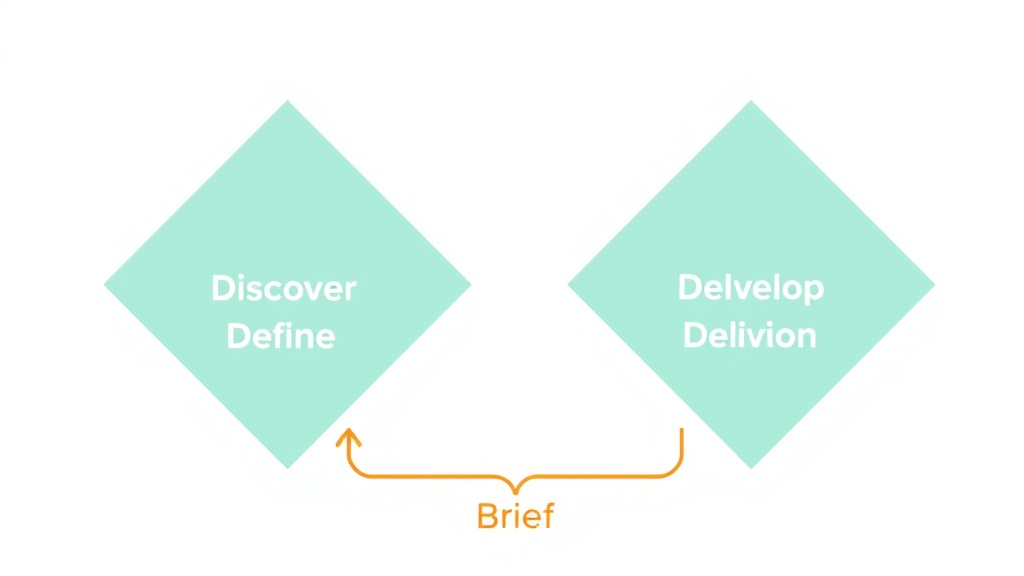
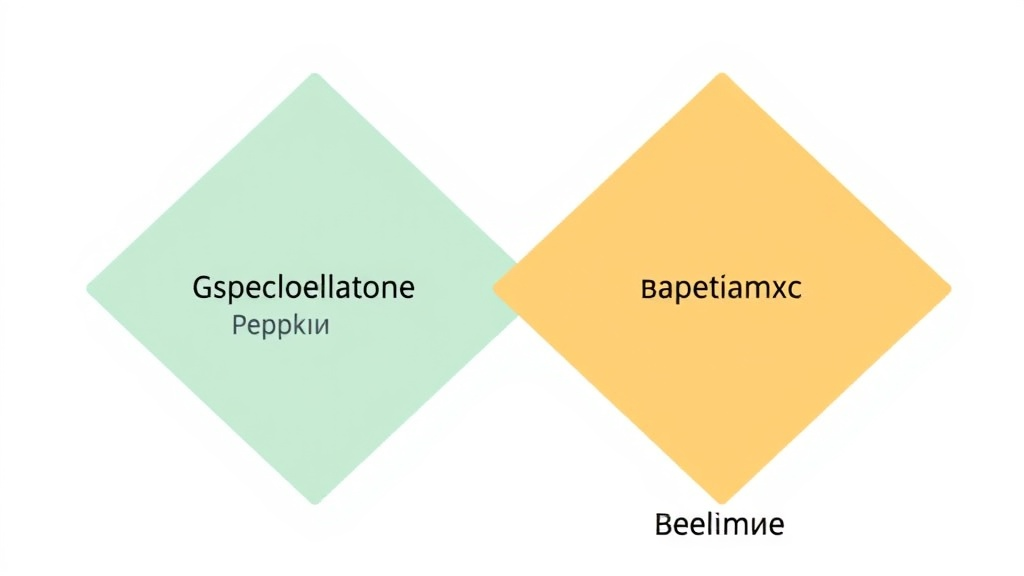
feat(meeting-02): artefacts section, links, salary ranges, regenerated team & diamond
Multiple targeted improvements requested by Michael:

- Add canonical reference links in "Ключевые фигуры" / "Key Figures":
  * Don Norman → "The Design of Everyday Things" (jnd.org)
  * Jakob Nielsen → 10 usability heuristics (nngroup.com)
  * Dieter Rams → 10 principles of good design (vitsoe.com)
- Extend RichText helper to parse [text](url) markdown links so anchors
  show up in any text/columns/callout content.
- Add new "Артефакты UX-дизайнера" / "UX Designer Artefacts" section with
  5 subsections, each with an example illustration:
  user-flow, wireframes, information-architecture, user-story-map,
  prototypes. RU + EN mirrored.
- Replace meaningless "Расходимся → Сходимся" Double Diamond description
  with the real phase names "Исследование → Определение → Разработка →
  Реализация" (EN: Discover → Define → Develop → Deliver).
- Regenerate meeting-02-double-diamond.webp with Russian phase labels
  baked into the diagram.
- Regenerate meeting-02-ux-team-roles.webp with explicit composition
  guidance (uniform card sizes, centred avatars, consistent style).
- Add Israeli salary ranges to "Карьерные пути" / "Career Paths" — one
  line per track (IC / Management / Specialization).

diff --git a/data/meetings/meeting-02.ts b/data/meetings/meeting-02.ts
@@ -160,7 +160,7 @@ export const meeting02: Meeting = {
               title: 'Дон Норман',
               items: [
                 'Ввёл термин «User Experience» в Apple (1993)',
-                'Книга «Дизайн привычных вещей» — библия UX',
+                'Книга «Дизайн привычных вещей» ([читать](https://jnd.org/books/the-design-of-everyday-things-revised-and-expanded-edition/)) — библия UX',
                 'Концепции affordance и signifier',
                 'Профессор когнитивных наук → дизайн',
               ],
@@ -168,7 +168,7 @@ export const meeting02: Meeting = {
             {
               title: 'Якоб Нильсен',
               items: [
-                '10 эвристик юзабилити (1994) — используются до сих пор',
+                '10 эвристик юзабилити (1994) ([читать](https://www.nngroup.com/articles/ten-usability-heuristics/)) — используются до сих пор',
                 'Основатель Nielsen Norman Group',
                 'Пионер юзабилити-тестирования',
                 '«5 пользователей найдут 85% проблем»',
@@ -186,7 +186,7 @@ export const meeting02: Meeting = {
             {
               title: 'Дитер Рамс',
               items: [
-                '10 принципов хорошего дизайна (Braun)',
+                '10 принципов хорошего дизайна (Braun) ([читать](https://www.vitsoe.com/us/about/good-design))',
                 'Вдохновил Джонни Айва (Apple)',
                 '«Хороший дизайн — как можно меньше дизайна»',
                 'Мост между индустриальным и цифровым дизайном',
@@ -626,6 +626,99 @@ export const meeting02: Meeting = {
 
         { type: 'divider' as const },
 
+        // --- Артефакты UX-дизайнера ---
+        {
+          type: 'heading' as const,
+          content: 'Артефакты UX-дизайнера',
+        },
+        {
+          type: 'text' as const,
+          content:
+            'Каждый этап работы дизайнера создаёт **артефакт** — конкретный документ или схему, которую можно показать команде, разработчикам и стейкхолдерам. Это способ превратить идеи в общий язык.',
+        },
+
+        {
+          type: 'subheading' as const,
+          content: 'User Flow — карта пути пользователя',
+        },
+        {
+          type: 'text' as const,
+          content:
+            'Схема всех экранов и решений на пути пользователя к цели. Показывает, **куда ведёт каждый клик** и где могут возникнуть тупики или развилки.',
+        },
+        {
+          type: 'image' as const,
+          src: '/images/meeting-02-artefact-user-flow.webp',
+          alt: 'Пример User Flow: 6 экранов соединены стрелками с двумя ветвлениями',
+          caption: 'User Flow для покупки в интернет-магазине: от логина до подтверждения заказа.',
+        },
+
+        {
+          type: 'subheading' as const,
+          content: 'Wireframes — схематичные макеты без визуала',
+        },
+        {
+          type: 'text' as const,
+          content:
+            'Каркас интерфейса в серых блоках: где будет контент, кнопка, картинка. Без шрифтов, цветов и графики — **только структура**. Их легко менять, пока не утверждена логика.',
+        },
+        {
+          type: 'image' as const,
+          src: '/images/meeting-02-artefact-wireframes.webp',
+          alt: 'Пример wireframe: серый каркас веб-страницы с hero-секцией и тремя карточками',
+          caption: 'Wireframe — структура без украшений: блоки, иерархия, акценты.',
+        },
+
+        {
+          type: 'subheading' as const,
+          content: 'Информационная архитектура (IA)',
+        },
+        {
+          type: 'text' as const,
+          content:
+            'Дерево разделов и страниц продукта. Показывает, как контент **сгруппирован и связан** между собой — от корня (Главная) до листьев (конкретных страниц).',
+        },
+        {
+          type: 'image' as const,
+          src: '/images/meeting-02-artefact-information-architecture.webp',
+          alt: 'Пример IA: дерево с корнем Home и четырьмя ветками категорий',
+          caption: 'Информационная архитектура: иерархия разделов от Главной до конкретных страниц.',
+        },
+
+        {
+          type: 'subheading' as const,
+          content: 'Карта пользовательских сценариев (User Story Map)',
+        },
+        {
+          type: 'text' as const,
+          content:
+            'Горизонтальная карта активностей пользователя с вертикальными «срезами» релизов. Помогает увидеть **MVP**, что может подождать, и в каком порядке выпускать функции.',
+        },
+        {
+          type: 'image' as const,
+          src: '/images/meeting-02-artefact-user-story-map.webp',
+          alt: 'Пример User Story Map: пять активностей сверху, под ними стикеры по релизам',
+          caption: 'User Story Map: верхний срез — MVP, ниже — последующие релизы.',
+        },
+
+        {
+          type: 'subheading' as const,
+          content: 'Прототипы для тестирования',
+        },
+        {
+          type: 'text' as const,
+          content:
+            'Кликабельная версия дизайна: можно нажать на кнопку и попасть на следующий экран. Используется для **юзабилити-тестов**, демо стейкхолдерам и проверки логики до разработки.',
+        },
+        {
+          type: 'image' as const,
+          src: '/images/meeting-02-artefact-prototypes.webp',
+          alt: 'Пример прототипа: смартфон-мокап с переходами на соседние экраны',
+          caption: 'Прототип: кликабельный поток с переходами между экранами для тестирования.',
+        },
+
+        { type: 'divider' as const },
+
         // --- Double Diamond ---
         {
           type: 'heading' as const,
@@ -639,7 +732,7 @@ export const meeting02: Meeting = {
         {
           type: 'diagram' as const,
           title: 'Четыре фазы Double Diamond',
-          description: 'Расходимся → Сходимся → Расходимся → Сходимся',
+          description: 'Исследование → Определение → Разработка → Реализация',
           items: [
             '1. Discover (Исследование) — понять проблему, собрать данные, интервью, наблюдения',
             '2. Define (Определение) — сформулировать точную проблему, приоритизировать',
@@ -696,6 +789,7 @@ export const meeting02: Meeting = {
                 'Глубокая экспертиза в одной области',
                 'Senior может зарабатывать как менеджер',
                 'Фокус на craft и менторство',
+                '**Ставка в Израиле:** Junior ₪8–14k · Middle ₪14–22k · Senior ₪22–35k · Staff/Principal ₪35–55k+',
               ],
             },
             {
@@ -705,6 +799,7 @@ export const meeting02: Meeting = {
                 'Управление командой и процессами',
                 'Стратегия дизайна на уровне компании',
                 'Меньше hands-on дизайна, больше коммуникации',
+                '**Ставка в Израиле:** Lead ₪28–42k · Head of Design ₪40–60k · VP/CDO ₪60k+',
               ],
             },
             {
@@ -714,6 +809,7 @@ export const meeting02: Meeting = {
                 'Design Systems → DS Architect',
                 'UX Writing → Content Design Lead',
                 'Motion Design → Creative Director',
+                '**Ставка в Израиле:** Lead-уровень ₪25–40k (зависит от ниши и спроса)',
               ],
             },
           ],

diff --git a/data/meetings/en/meeting-02.ts b/data/meetings/en/meeting-02.ts
@@ -160,7 +160,7 @@ export const meeting02: Meeting = {
               title: 'Don Norman',
               items: [
                 'Coined the term "User Experience" at Apple (1993)',
-                'Book "The Design of Everyday Things" — the UX bible',
+                'Book "The Design of Everyday Things" ([read](https://jnd.org/books/the-design-of-everyday-things-revised-and-expanded-edition/)) — the UX bible',
                 'Concepts of affordance and signifier',
                 'Cognitive science professor turned designer',
               ],
@@ -168,7 +168,7 @@ export const meeting02: Meeting = {
             {
               title: 'Jakob Nielsen',
               items: [
-                '10 usability heuristics (1994) — still in use today',
+                '10 usability heuristics (1994) ([read](https://www.nngroup.com/articles/ten-usability-heuristics/)) — still in use today',
                 'Founder of Nielsen Norman Group',
                 'Pioneer of usability testing',
                 '"5 users will find 85% of problems"',
@@ -186,7 +186,7 @@ export const meeting02: Meeting = {
             {
               title: 'Dieter Rams',
               items: [
-                '10 principles of good design (Braun)',
+                '10 principles of good design (Braun) ([read](https://www.vitsoe.com/us/about/good-design))',
                 'Inspired Jony Ive (Apple)',
                 '"Good design is as little design as possible"',
                 'Bridge between industrial and digital design',
@@ -626,6 +626,99 @@ export const meeting02: Meeting = {
 
         { type: 'divider' as const },
 
+        // --- UX Designer Artefacts ---
+        {
+          type: 'heading' as const,
+          content: 'UX Designer Artefacts',
+        },
+        {
+          type: 'text' as const,
+          content:
+            'Each stage of a designer\'s work produces an **artefact** — a concrete document or diagram you can show to teammates, developers, and stakeholders. It is how ideas turn into a shared language.',
+        },
+
+        {
+          type: 'subheading' as const,
+          content: 'User Flow — the user journey map',
+        },
+        {
+          type: 'text' as const,
+          content:
+            'A diagram of every screen and decision a user makes on the way to their goal. It shows **where each click leads** and where dead ends or branches may appear.',
+        },
+        {
+          type: 'image' as const,
+          src: '/images/meeting-02-artefact-user-flow.webp',
+          alt: 'User Flow example: 6 screens connected by arrows with two branches',
+          caption: 'User Flow for online shopping: from login to order confirmation.',
+        },
+
+        {
+          type: 'subheading' as const,
+          content: 'Wireframes — schematic mockups without visuals',
+        },
+        {
+          type: 'text' as const,
+          content:
+            'A grey-block skeleton of the interface: where content, buttons, and images go. No fonts, colours, or graphics — **structure only**. Easy to change while the logic is still being decided.',
+        },
+        {
+          type: 'image' as const,
+          src: '/images/meeting-02-artefact-wireframes.webp',
+          alt: 'Wireframe example: grey skeleton of a webpage with hero section and three cards',
+          caption: 'Wireframe — structure without decoration: blocks, hierarchy, accents.',
+        },
+
+        {
+          type: 'subheading' as const,
+          content: 'Information Architecture (IA)',
+        },
+        {
+          type: 'text' as const,
+          content:
+            'A tree of sections and pages of the product. Shows how content is **grouped and connected** — from the root (Home) all the way to the leaves (specific pages).',
+        },
+        {
+          type: 'image' as const,
+          src: '/images/meeting-02-artefact-information-architecture.webp',
+          alt: 'IA example: tree with a Home root and four category branches',
+          caption: 'Information architecture: a hierarchy from Home down to specific pages.',
+        },
+
+        {
+          type: 'subheading' as const,
+          content: 'User Story Map',
+        },
+        {
+          type: 'text' as const,
+          content:
+            'A horizontal map of user activities with vertical "release slices". Helps you see the **MVP**, what can wait, and the right release order.',
+        },
+        {
+          type: 'image' as const,
+          src: '/images/meeting-02-artefact-user-story-map.webp',
+          alt: 'User Story Map example: five activities on top with stickers per release below',
+          caption: 'User Story Map: the top slice is the MVP; rows below are later releases.',
+        },
+
+        {
+          type: 'subheading' as const,
+          content: 'Prototypes for testing',
+        },
+        {
+          type: 'text' as const,
+          content:
+            'A clickable version of the design: tap a button and you go to the next screen. Used for **usability testing**, stakeholder demos, and validating logic before development.',
+        },
+        {
+          type: 'image' as const,
+          src: '/images/meeting-02-artefact-prototypes.webp',
+          alt: 'Prototype example: a phone mockup with transitions to neighbouring screens',
+          caption: 'Prototype: a clickable flow with transitions between screens for testing.',
+        },
+
+        { type: 'divider' as const },
+
         // --- Double Diamond ---
         {
           type: 'heading' as const,
@@ -639,7 +732,7 @@ export const meeting02: Meeting = {
         {
           type: 'diagram' as const,
           title: 'The Four Phases of the Double Diamond',
-          description: 'Diverge → Converge → Diverge → Converge',
+          description: 'Discover → Define → Develop → Deliver',
           items: [
             '1. Discover — understand the problem, gather data, interviews, observations',
             '2. Define — formulate the exact problem, prioritize',
@@ -696,6 +789,7 @@ export const meeting02: Meeting = {
                 'Deep expertise in one area',
                 'Seniors can earn as much as managers',
                 'Focus on craft and mentorship',
+                '**Israel salary range:** Junior ₪8–14k · Middle ₪14–22k · Senior ₪22–35k · Staff/Principal ₪35–55k+',
               ],
             },
             {
@@ -705,6 +799,7 @@ export const meeting02: Meeting = {
                 'Managing teams and processes',
                 'Design strategy at the company level',
                 'Less hands-on design, more communication',
+                '**Israel salary range:** Lead ₪28–42k · Head of Design ₪40–60k · VP/CDO ₪60k+',
               ],
             },
             {
@@ -714,6 +809,7 @@ export const meeting02: Meeting = {
                 'Design Systems → DS Architect',
                 'UX Writing → Content Design Lead',
                 'Motion Design → Creative Director',
+                '**Israel salary range:** Lead-level ₪25–40k (depends on niche and demand)',
               ],
             },
           ],

diff --git a/components/course/section-renderer.tsx b/components/course/section-renderer.tsx
@@ -19,18 +19,33 @@ import {
 // ---- Helpers ----
 
 function RichText({ content }: { content: string }) {
-  const parts = content.split(/(\*\*.*?\*\*)/g)
+  const parts = content.split(/(\*\*.*?\*\*|\[[^\]]+\]\([^)]+\))/g)
   return (
     <>
-      {parts.map((part, i) =>
-        part.startsWith('**') && part.endsWith('**') ? (
-          <strong key={i} className="font-semibold text-foreground">
-            {part.slice(2, -2)}
-          </strong>
-        ) : (
-          <span key={i}>{part}</span>
-        )
-      )}
+      {parts.map((part, i) => {
+        if (part.startsWith('**') && part.endsWith('**')) {
+          return (
+            <strong key={i} className="font-semibold text-foreground">
+              {part.slice(2, -2)}
+            </strong>
+          )
+        }
+        const linkMatch = part.match(/^\[([^\]]+)\]\(([^)]+)\)$/)
+        if (linkMatch) {
+          return (
+            <a
+              key={i}
+              href={linkMatch[2]}
+              target="_blank"
+              rel="noopener noreferrer"
+              className="text-primary underline underline-offset-2 hover:text-primary/80"
+            >
+              {linkMatch[1]}
+            </a>
+          )
+        }
+        return <span key={i}>{part}</span>
+      })}
     </>
   )
 }
